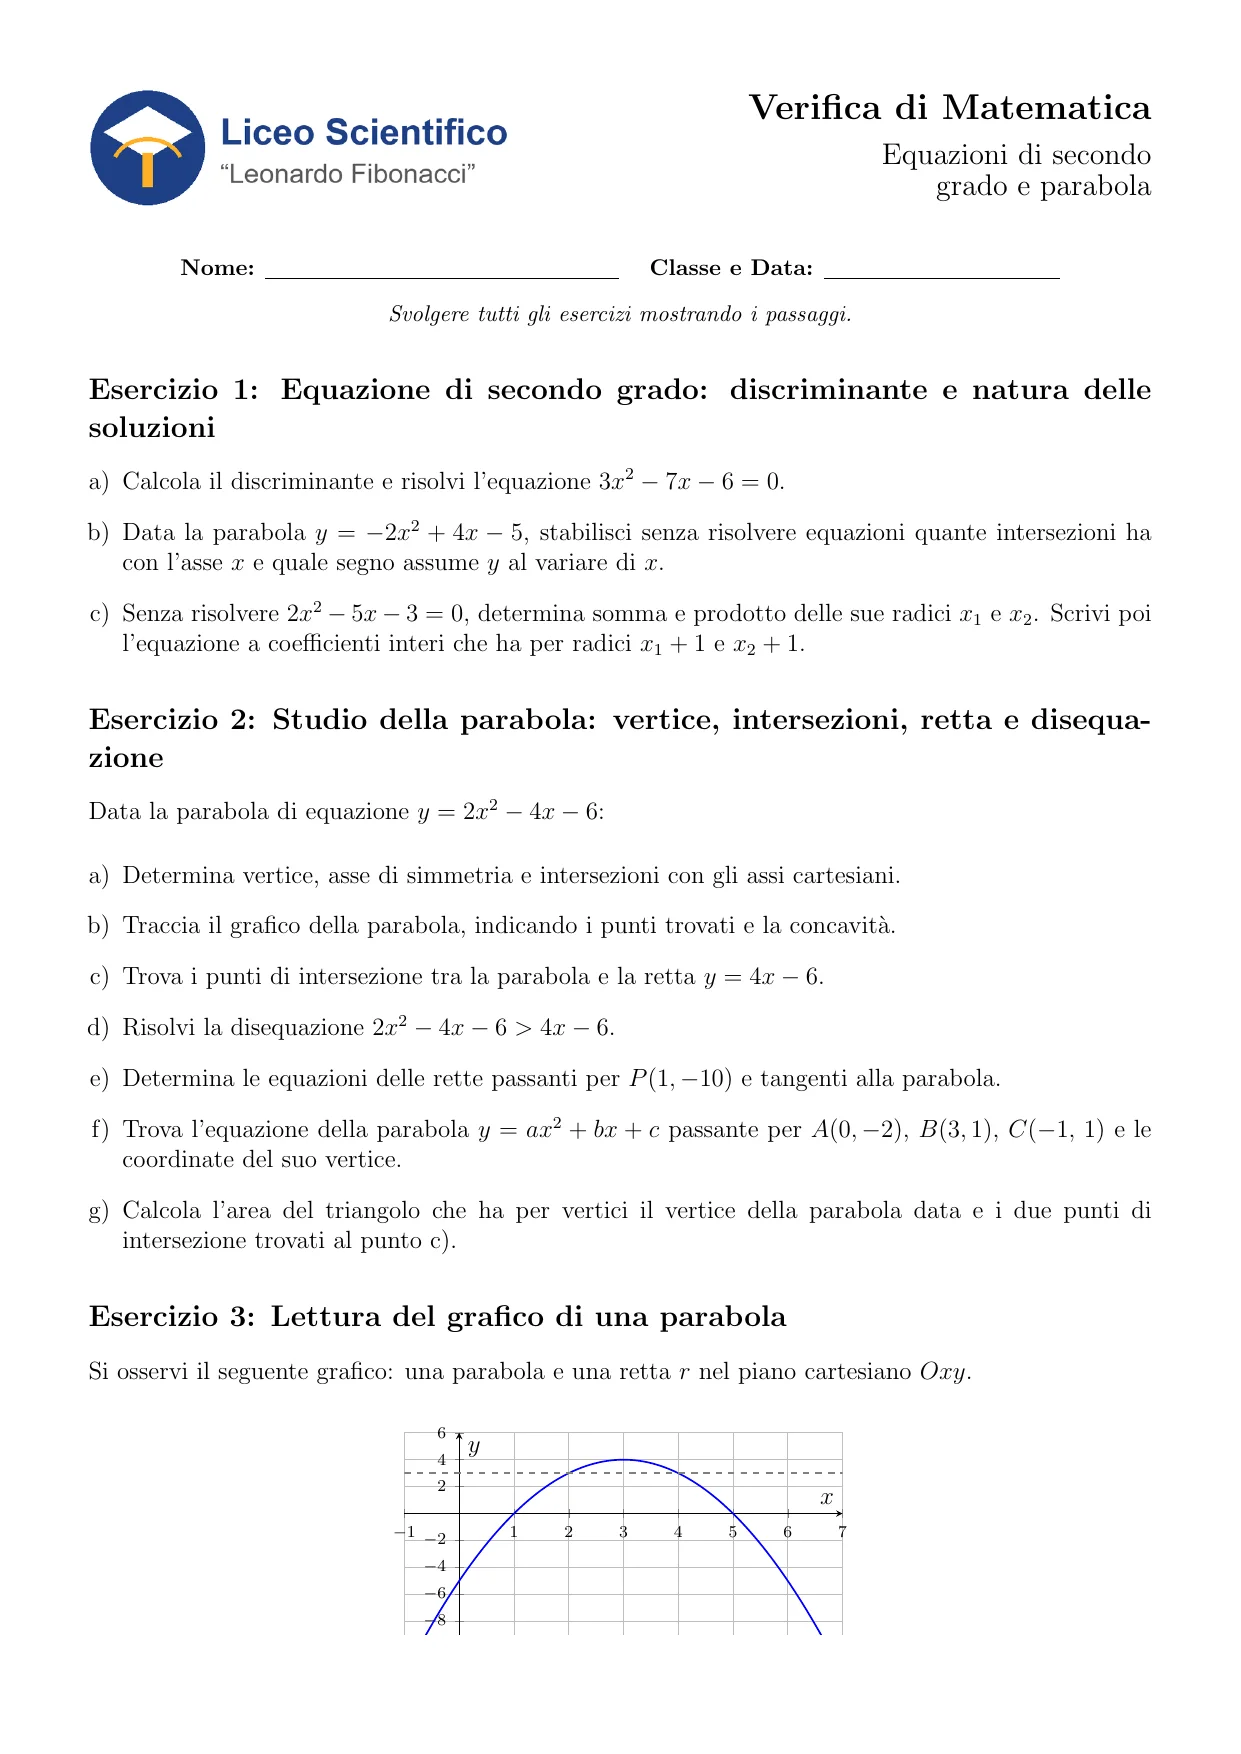
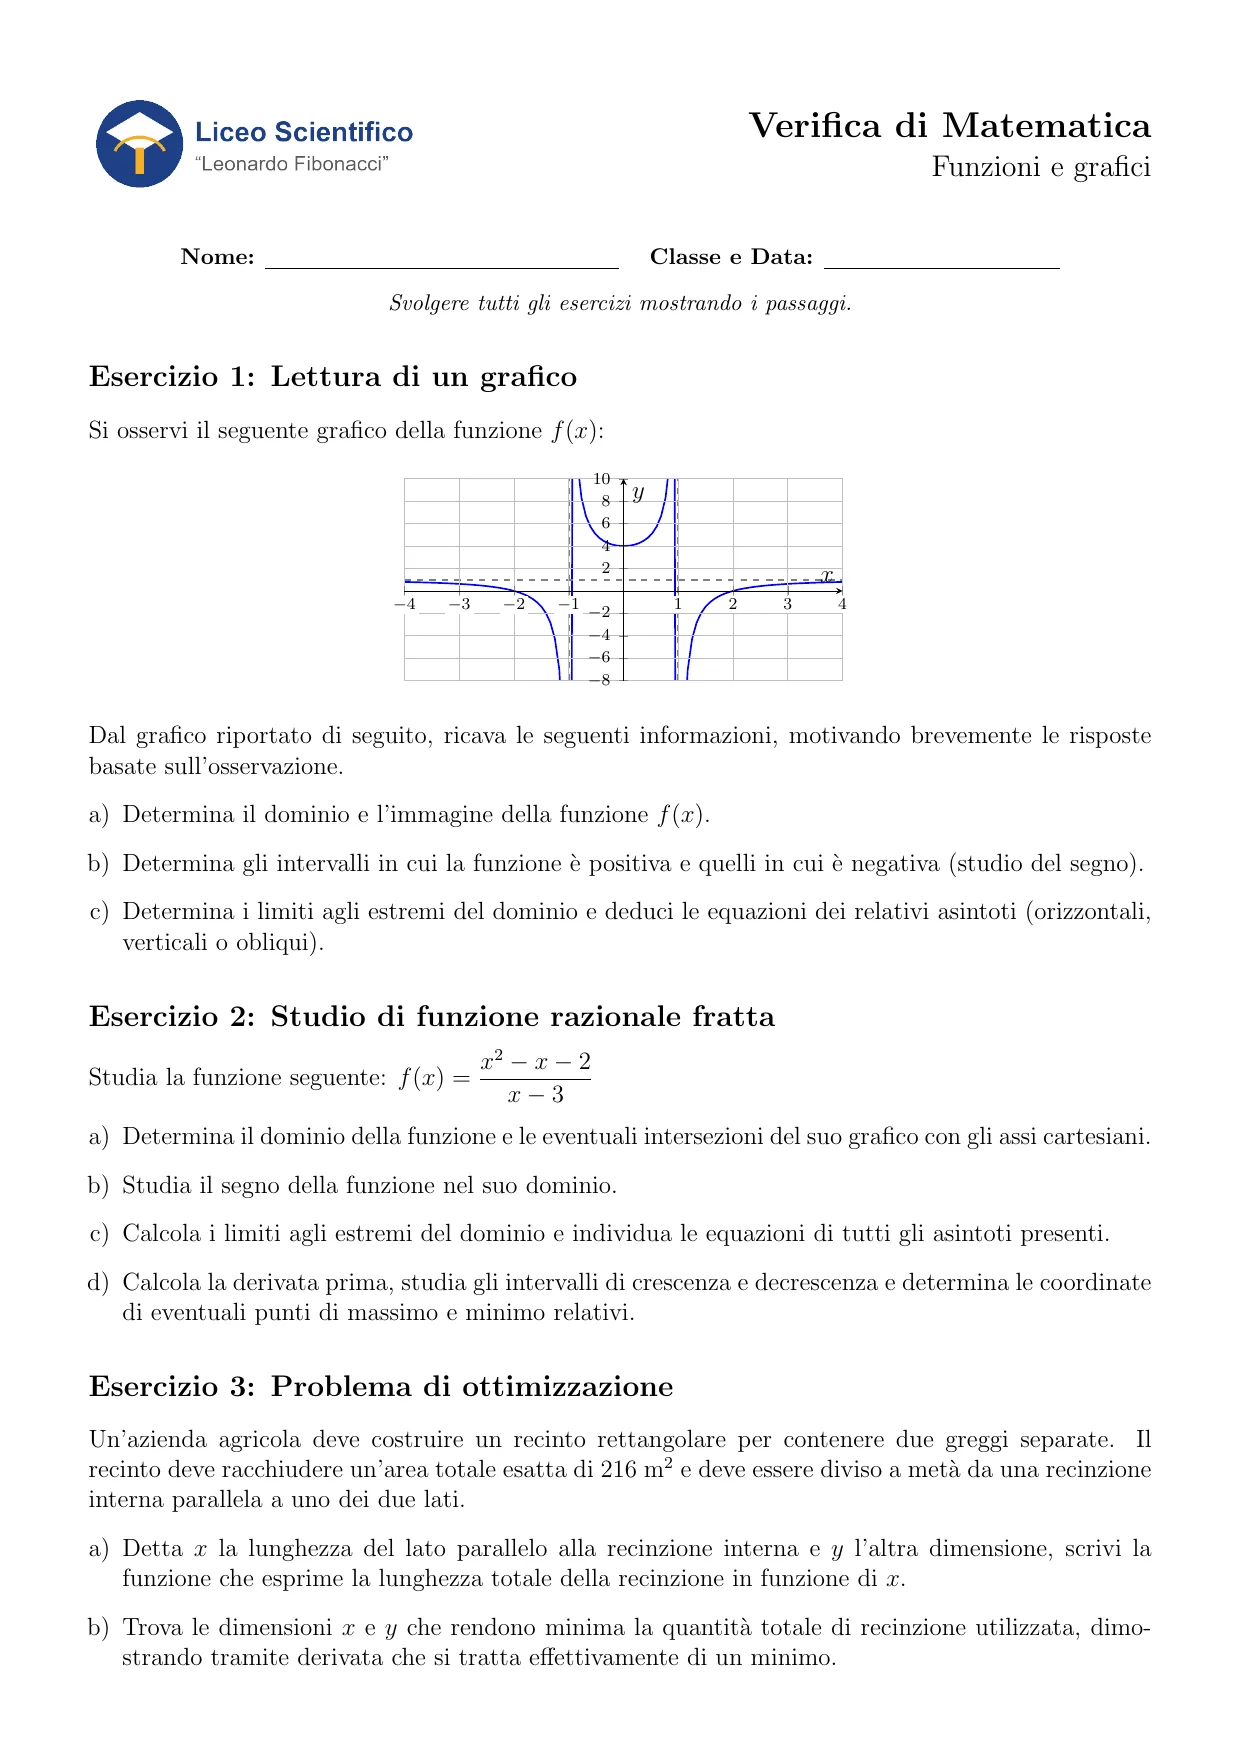
Landing: video fermo sotto il titolo, pulsante in alto a sinistra, avvio automatico, foglio "dopo" coerente
- Nell'atto iniziale il titolo che cambia sta più in alto e sotto resta il video dell'app (in loop, senza audio)
- Tutti i video partono da soli quando sono in vista e si fermano quando escono; pulsante Pausa in alto a sinistra,
  grande "Guarda il video" al centro se il video è fermo per scelta o il browser non lo fa partire
- Il «dopo» torna la verifica di Funzioni e grafici, quella che corrisponde al «prima» (prima mostrava un'altra verifica)
- Etichette PRIMA/DOPO un po' più in alto per non coprire il titolo

diff --git a/landing/index.html b/landing/index.html
@@ -63,10 +63,13 @@
     display: grid;
     grid-template-columns: minmax(0, 5fr) minmax(0, 6fr);
     align-items: center;
-    padding: 5.5rem var(--sc-gutter) 2rem;
+    padding: 5.5rem var(--sc-gutter) 4.5rem;
     gap: var(--sc-6);
     background: radial-gradient(90% 70% at 72% 50%, #16224A 0%, var(--sc-canvas) 70%);
   }
+  .colonna { display: flex; flex-direction: column; justify-content: center; gap: var(--sc-5); min-width: 0; align-self: center; }
+  .colonna .copia h1, .colonna .copia h2, .colonna .copia .grande { font-size: var(--sc-t-2xl); margin-bottom: var(--sc-3); }
+  .hero-video { margin: 0; max-width: none; width: 100%; }
   .copia { display: grid; align-self: center; }
   .copia > * { grid-area: 1 / 1; align-self: center; }
   .copia h1, .copia h2 { margin: 0 0 var(--sc-4); font-size: var(--sc-t-3xl); line-height: var(--sc-leading-tight); letter-spacing: var(--sc-track-tight); text-wrap: balance; }
@@ -90,7 +93,7 @@
     --t: clamp(0, calc(var(--sc-p, 0) / 0.14), 1);   /* quanto si è raddrizzato: parte subito */
     --w: clamp(0, calc((var(--sc-p, 0) - 0.30) / 0.46), 1);   /* quanto ha avanzato il "dopo" */
     position: relative; container-type: inline-size;
-    height: min(calc(100svh - 7.5rem), 60vw); aspect-ratio: 1 / 1.414; max-width: 100%;
+    height: min(calc(100svh - 9.5rem), 60vw); aspect-ratio: 1 / 1.414; max-width: 100%;
     border-radius: 4px; box-shadow: var(--sc-e3), 0 40px 80px -30px #000, 0 0 calc(var(--w) * 70px) calc(var(--w) * 4px) #3B82F633;
     background: #F3EEE0; overflow: hidden; color: #2a2a2a;
   }
@@ -104,7 +107,7 @@
   }
   .linea::after { content: "‹ ›"; position: absolute; top: 50%; left: 50%; width: 9cqw; height: 9cqw; margin: -4.5cqw 0 0 -4.5cqw; display: grid; place-items: center; border-radius: 50%; background: #fff; color: #1d4ed8; font: 700 4cqw/1 var(--sc-font-text); letter-spacing: .1cqw; box-shadow: 0 .6cqw 2cqw #0B102080, 0 0 0 .5cqw var(--sc-accent); }
   .etichetta {
-    position: absolute; top: 3cqw; z-index: 4; font-family: var(--sc-font-text); font-weight: 700; font-size: 3cqw; letter-spacing: .1em; text-transform: uppercase;
+    position: absolute; top: 1.8cqw; z-index: 4; font-family: var(--sc-font-text); font-weight: 700; font-size: 2.6cqw; letter-spacing: .1em; text-transform: uppercase;
     padding: .8cqw 2.4cqw; border-radius: 99px; box-shadow: 0 .4cqw 1.4cqw #0006;
   }
   .et-prima { left: 3cqw; background: #2a2a2a; color: #FFF8E1; opacity: calc(1 - var(--w) * 1.5); }
@@ -146,9 +149,19 @@
   .demo .sc-body { margin-bottom: var(--sc-7); }
   .schermo { position: relative; margin: 0 auto; max-width: 62rem; border-radius: var(--sc-r-lg); overflow: hidden; background: #E9EEF9; box-shadow: var(--sc-e3), 0 50px 90px -40px #000, var(--sc-edge); border: 1px solid var(--sc-hairline-strong); }
   .schermo video { width: 100%; height: auto; aspect-ratio: 16 / 9; display: block; }
-  .gioca { position: absolute; right: var(--sc-4); bottom: var(--sc-4); min-width: 44px; min-height: 44px; padding: 0 1.1rem; border: 0; border-radius: var(--sc-r-pill); background: #0B1020E6; color: var(--sc-ink); font-weight: 700; font-size: var(--sc-t-sm); cursor: pointer; box-shadow: var(--sc-e2); transition: transform var(--sc-d-fast) var(--sc-ease-out); }
+  .gioca {
+    position: absolute; z-index: 3; top: var(--sc-4); left: var(--sc-4); display: inline-flex; align-items: center; gap: .55rem;
+    min-height: 44px; padding: 0 1.15rem 0 1rem; border: 0; border-radius: var(--sc-r-pill);
+    background: var(--sc-accent); color: var(--sc-accent-ink); font: 700 var(--sc-t-sm)/1 var(--sc-font-text); cursor: pointer;
+    box-shadow: var(--sc-e2), var(--sc-edge); transition: transform var(--sc-d-fast) var(--sc-ease-out);
+  }
+  .gioca svg { width: 1rem; height: 1rem; flex: none; }
+  .gioca .ip { display: none; }
+  .schermo.inpausa .gioca .ip { display: block; } .schermo.inpausa .gioca .ib { display: none; }
+  .schermo.ferma .gioca { top: 50%; left: 50%; translate: -50% -50%; min-height: 64px; padding: 0 1.9rem 0 1.6rem; font-size: var(--sc-t-lg); box-shadow: var(--sc-e3), 0 0 0 .5rem #3B82F644; }
+  .schermo.ferma .gioca svg { width: 1.3rem; height: 1.3rem; }
   .gioca:active { transform: scale(.97); }
-  @media (hover: hover) and (pointer: fine) { .gioca:hover { transform: translateY(-1px); } }
+  @media (hover: hover) and (pointer: fine) { .gioca:hover { transform: translateY(-1px); } .schermo.ferma .gioca:hover { transform: none; filter: brightness(1.08); } }
   .passi { list-style: none; margin: var(--sc-6) auto 0; padding: 0; max-width: 62rem; display: grid; grid-template-columns: repeat(3, minmax(0, 1fr)); gap: var(--sc-5); }
   .passi li { border-top: 1px solid var(--sc-hairline-strong); padding-top: var(--sc-3); color: var(--sc-ink-soft); font-size: var(--sc-t-sm); text-wrap: pretty; }
   .passi b { display: block; color: var(--sc-ink); font-size: var(--sc-t-base); font-weight: 700; margin-bottom: var(--sc-1); }
@@ -203,6 +216,7 @@
     .copia .grande { font-size: var(--sc-t-2xl); }
     .copia p { font-size: var(--sc-t-sm); }
     .copia { min-height: 12.5rem; }
+    .hero-video { display: none; }
     .invito { left: 50%; translate: -50% 0; bottom: max(1rem, env(safe-area-inset-bottom)); }
     .foglio { height: min(100%, 118vw); width: auto; }
     .tavolo { align-items: start; }
@@ -232,6 +246,7 @@
   <!-- 1 · il foglio che si impagina da solo (picco, atto più lungo) -->
   <section class="atto1" data-sc-act="pin" data-sc-span="5.4" aria-label="Da verifica fatta di corsa a verifica impaginata">
     <div data-sc-stage>
+      <div class="colonna">
       <div class="copia">
         <div data-sc-cue="0 0.30 0">
           <h1 class="sc-display">Dalla verifica fatta di corsa a quella <em>da stampare</em>.</h1>
@@ -249,6 +264,11 @@
           <h2 class="sc-display grande">Pronta in <em>pochi minuti</em>.</h2>
           <p class="fine">PDF o Word, con Fila B, BES/DSA e soluzioni quando ti servono.</p>
         </div>
+      </div>
+      <figure class="schermo hero-video">
+        <video src="assets/demo-crea.mp4" poster="assets/demo-poster.webp" width="1280" height="720" muted playsinline loop preload="metadata" aria-label="Registrazione di VerificAI: si scrive la richiesta, si controlla il riepilogo e la verifica di matematica viene creata"></video>
+        <button class="gioca" type="button" aria-label="Metti in pausa il video"><svg class="ib" viewBox="0 0 16 16" fill="currentColor" aria-hidden="true"><rect x="3" y="2" width="3.5" height="12" rx="1"/><rect x="9.5" y="2" width="3.5" height="12" rx="1"/></svg><svg class="ip" viewBox="0 0 16 16" fill="currentColor" aria-hidden="true"><path d="M4 2.2v11.6a.6.6 0 0 0 .9.5l9.2-5.8a.6.6 0 0 0 0-1L4.9 1.7a.6.6 0 0 0-.9.5z"/></svg><span class="gl">Pausa</span></button>
+      </figure>
       </div>
 
       <div class="invito" aria-hidden="true">Scorri e guarda <svg viewBox="0 0 20 20" fill="none" stroke="currentColor" stroke-width="2" stroke-linecap="round" stroke-linejoin="round"><path d="M4 7.5l6 6 6-6"/></svg></div>
@@ -292,8 +312,8 @@
         <p class="sc-body">Scrivi cosa ti serve come lo diresti a un collega, controlli il riepilogo, e la verifica è pronta da scaricare.</p>
       </div>
       <figure class="schermo" data-sc-in>
-        <video id="demo" src="assets/demo-crea.mp4" poster="assets/demo-poster.webp" width="1280" height="720" muted playsinline loop preload="none" aria-label="Registrazione di VerificAI: si scrive la richiesta, si controlla il riepilogo e la verifica di matematica viene creata"></video>
-        <button class="gioca" type="button" id="demo-btn" aria-pressed="false">Avvia</button>
+        <video src="assets/demo-crea.mp4" poster="assets/demo-poster.webp" width="1280" height="720" muted playsinline loop preload="none" aria-label="Registrazione di VerificAI: si scrive la richiesta, si controlla il riepilogo e la verifica di matematica viene creata"></video>
+        <button class="gioca" type="button" aria-label="Metti in pausa il video"><svg class="ib" viewBox="0 0 16 16" fill="currentColor" aria-hidden="true"><rect x="3" y="2" width="3.5" height="12" rx="1"/><rect x="9.5" y="2" width="3.5" height="12" rx="1"/></svg><svg class="ip" viewBox="0 0 16 16" fill="currentColor" aria-hidden="true"><path d="M4 2.2v11.6a.6.6 0 0 0 .9.5l9.2-5.8a.6.6 0 0 0 0-1L4.9 1.7a.6.6 0 0 0-.9.5z"/></svg><span class="gl">Pausa</span></button>
       </figure>
       <ol class="passi" data-sc-in data-sc-stagger="60">
         <li><b>Scrivi la richiesta</b>Argomento, classe, quanti esercizi. Anche a voce.</li>
@@ -379,21 +399,33 @@
 <script src="scrollcraft.js"></script>
 <script>ScrollCraft.mount(document.body);</script>
 <script>
-  // il video parte da solo quando è in vista (se l'utente non ha chiesto meno movimento) e ha sempre un pulsante per fermarlo
+  // i video (senza audio) partono da soli quando sono in vista, in loop, e si fermano quando escono; il pulsante in alto a sinistra li ferma e li fa ripartire
   (function () {
-    var v = document.getElementById("demo"), btn = document.getElementById("demo-btn");
-    if (!v || !btn) return;
-    var ridotto = window.matchMedia("(prefers-reduced-motion: reduce)").matches, manuale = false;
-    function agg() { var on = !v.paused; btn.textContent = on ? "Pausa" : "Avvia"; btn.setAttribute("aria-pressed", on ? "true" : "false"); }
-    function avvia() { v.preload = "auto"; var p = v.play(); if (p && p.catch) p.catch(function () {}); agg(); }
-    btn.addEventListener("click", function () { manuale = true; if (v.paused) avvia(); else { v.pause(); agg(); } });
-    v.addEventListener("play", agg); v.addEventListener("pause", agg);
-    if ("IntersectionObserver" in window && !ridotto) {
-      new IntersectionObserver(function (e) {
-        if (e[0].isIntersecting) { if (!manuale || !v.paused) avvia(); } else { v.pause(); }
-      }, { threshold: 0.5 }).observe(v);
-    }
-    agg();
+    document.querySelectorAll(".schermo").forEach(function (fig) {
+      var v = fig.querySelector("video"), btn = fig.querySelector(".gioca");
+      if (!v || !btn) return;
+      var lab = btn.querySelector(".gl"), manuale = false, mostra = false;
+      function agg() {
+        var fermo = v.paused;
+        fig.classList.toggle("inpausa", fermo);
+        fig.classList.toggle("ferma", fermo && mostra);   // grande al centro solo se è fermo per scelta o se il browser non l'ha fatto partire
+        lab.textContent = fermo ? (mostra ? "Guarda il video" : "Avvia") : "Pausa";
+        btn.setAttribute("aria-label", fermo ? "Avvia il video" : "Metti in pausa il video");
+      }
+      function avvia() { v.preload = "auto"; var p = v.play(); if (p && p.catch) p.catch(function () { mostra = true; agg(); }); }
+      btn.addEventListener("click", function () {
+        if (v.paused) { manuale = false; mostra = false; avvia(); } else { manuale = true; mostra = true; v.pause(); }
+        agg();
+      });
+      v.addEventListener("play", function () { mostra = false; agg(); });
+      v.addEventListener("pause", agg);
+      if ("IntersectionObserver" in window) {
+        new IntersectionObserver(function (e) {
+          if (e[0].isIntersecting) { if (!manuale) avvia(); } else if (!v.paused) { v.pause(); }
+        }, { threshold: 0.35 }).observe(fig);
+      } else { avvia(); }
+      agg();
+    });
   })();
 </script>
 <script>
